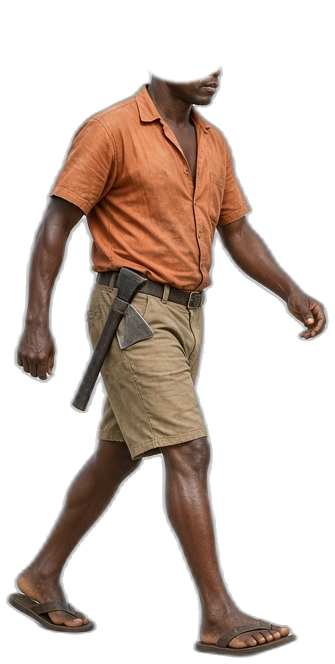
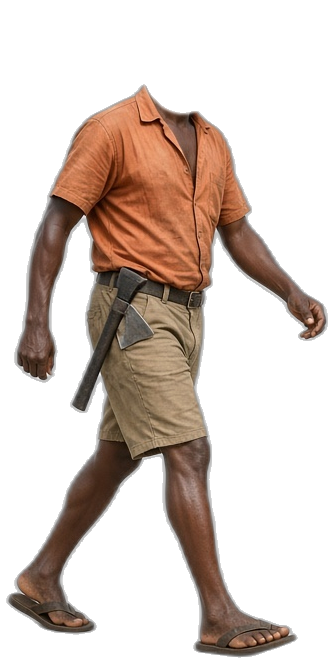
Pins talk: first elephant trumpet only, fix walking hunter's head
Trim the elephant SFX to its first call. Set hunter-walk's neck and head
by hand, and flip the cartoon head's turn and gaze with a flipped figure
so the face points the way he walks. Add the scientist bodies, the
ponytail hair, and the FLUX images for the sleep Short.

Claude-Session: https://claude.ai/code/session_01J8o81FrgPeuixM2mLQzCRY

Changed region(s): [[0.4179, 0.0904, 0.6866, 0.1807]]

diff --git a/src/pins/people.tsx b/src/pins/people.tsx
@@ -246,7 +246,7 @@ export const PeopleSheet: React.FC = () => {
 
 export type HeadLook = {
   skin?: string;
-  hair?: "short" | "cap" | "beanie" | "bald" | "side";
+  hair?: "short" | "cap" | "beanie" | "bald" | "side" | "ponytail";
   hairColor?: string;
   hat?: string;
   beard?: "none" | "stubble" | "full";
@@ -315,6 +315,12 @@ export const CartoonHead: React.FC<{ t: number; look?: HeadLook; face?: Face; si
       {beard === "full" && <path d="M 22 88 Q 26 132 60 136 Q 94 132 98 88 Q 92 104 80 102 Q 70 99 60 100 Q 50 99 40 102 Q 28 104 22 88 Z" fill={hairColor} stroke={L} strokeWidth={2} />}
       {/* hair / hats */}
       {hair === "short" && <path d="M 19 64 Q 14 14 60 12 Q 106 14 101 64 Q 98 40 84 34 Q 62 40 36 34 Q 22 42 19 64 Z" fill={hairColor} stroke={L} strokeWidth={2.4} />}
+      {hair === "ponytail" && (
+        <g>
+          <path d={`M ${96 - fx * 0.5} 46 Q ${118 - fx * 0.5} 64 ${110 - fx * 0.5} 104 Q ${104 - fx * 0.5} 80 ${92 - fx * 0.5} 62 Z`} fill={hairColor} stroke={L} strokeWidth={2.2} />
+          <path d="M 19 66 Q 14 10 60 10 Q 106 10 101 66 Q 98 38 78 30 Q 60 26 42 30 Q 22 38 19 66 Z" fill={hairColor} stroke={L} strokeWidth={2.4} />
+        </g>
+      )}
       {hair === "side" && <path d="M 19 66 Q 12 12 62 10 Q 108 14 101 62 Q 96 36 70 30 Q 48 44 30 40 Q 22 48 19 66 Z" fill={hairColor} stroke={L} strokeWidth={2.4} />}
       {hair === "cap" && (
         <g>
@@ -419,7 +425,7 @@ export const PhotoPerson: React.FC<{
       <Img src={staticFile(pose.src)} style={{ position: "absolute", inset: 0, width: "100%", height: "100%", filter: "drop-shadow(0 6px 8px rgba(0,0,0,0.25))" }} />
       {/* the head: chin (60,132 of 120×150) on the neck point */}
       <div style={{ position: "absolute", left: nx - hw / 2, top: ny - hh * (132 / 150), width: hw, height: hh, transform: `rotate(${headRot}deg) ${flip ? "scaleX(-1)" : ""}`, transformOrigin: "50% 88%" }}>
-        <CartoonHead t={t} id={id} look={look} face={face} since={fs} turn={pose.turn ?? 0} gaze={gaze} talking={talking} neck={false} />
+        <CartoonHead t={t} id={id} look={look} face={face} since={fs} turn={(pose.turn ?? 0) * (flip ? -1 : 1)} gaze={flip ? [-gaze[0], gaze[1]] : gaze} talking={talking} neck={false} />
       </div>
     </div>
   );

diff --git a/scripts/gen-images.py b/scripts/gen-images.py
@@ -11,7 +11,7 @@ removed when "cutout" is true). Every image generated is counted in
 channel's limit) it stops. Cached ids are never re-generated; delete the jpg to
 re-roll one. The key is read from the environment, never from the repo.
 """
-import json, os, sys, uuid, urllib.request
+import json, os, sys, uuid, urllib.error, urllib.request
 
 ROOT = os.path.dirname(os.path.dirname(os.path.abspath(__file__)))
 MODEL = "runware:100@1"   # FLUX.1 [schnell]
@@ -33,7 +33,10 @@ def generate(prompt, w, h, seed=None):
         task["seed"] = seed
     req = urllib.request.Request("https://api.runware.ai/v1", data=json.dumps([task]).encode(),
                                  headers={"Content-Type": "application/json", "Authorization": "Bearer " + key()})
-    d = json.loads(urllib.request.urlopen(req, timeout=120).read())
+    try:
+        d = json.loads(urllib.request.urlopen(req, timeout=120).read())
+    except urllib.error.HTTPError as e:
+        raise RuntimeError(f"Runware {e.code}: {e.read().decode()[:400]}")
     if d.get("errors"):
         raise RuntimeError(d["errors"])
     r = d["data"][0]

diff --git a/public/images/pins-sleep-ai/CREDITS.md b/public/images/pins-sleep-ai/CREDITS.md
@@ -1,0 +1,1 @@
+All images here are AI-generated for this channel with FLUX.1 [schnell] (Runware), from the prompts in src/pins/sleep/images.json (bg-deep shared with the talk short). No photo credit is owed.
